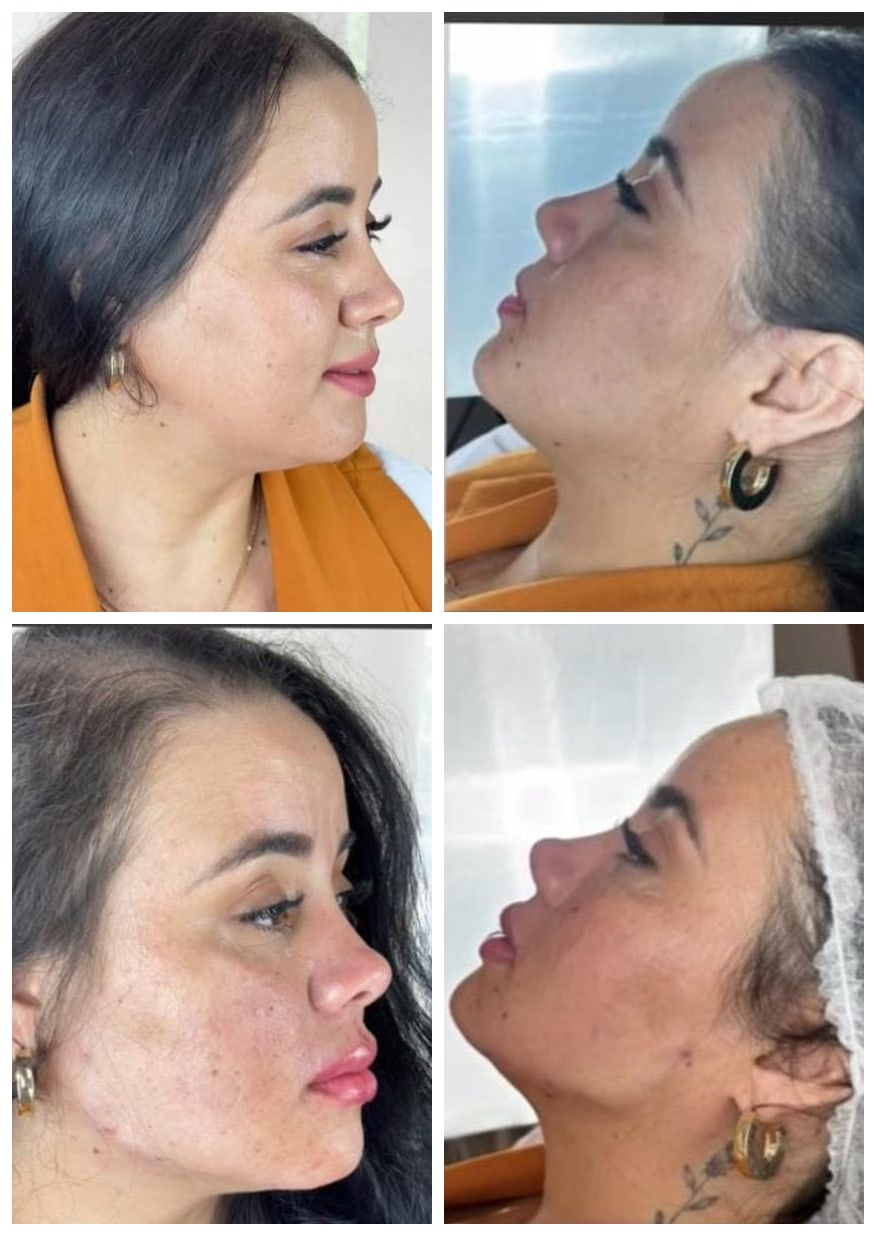
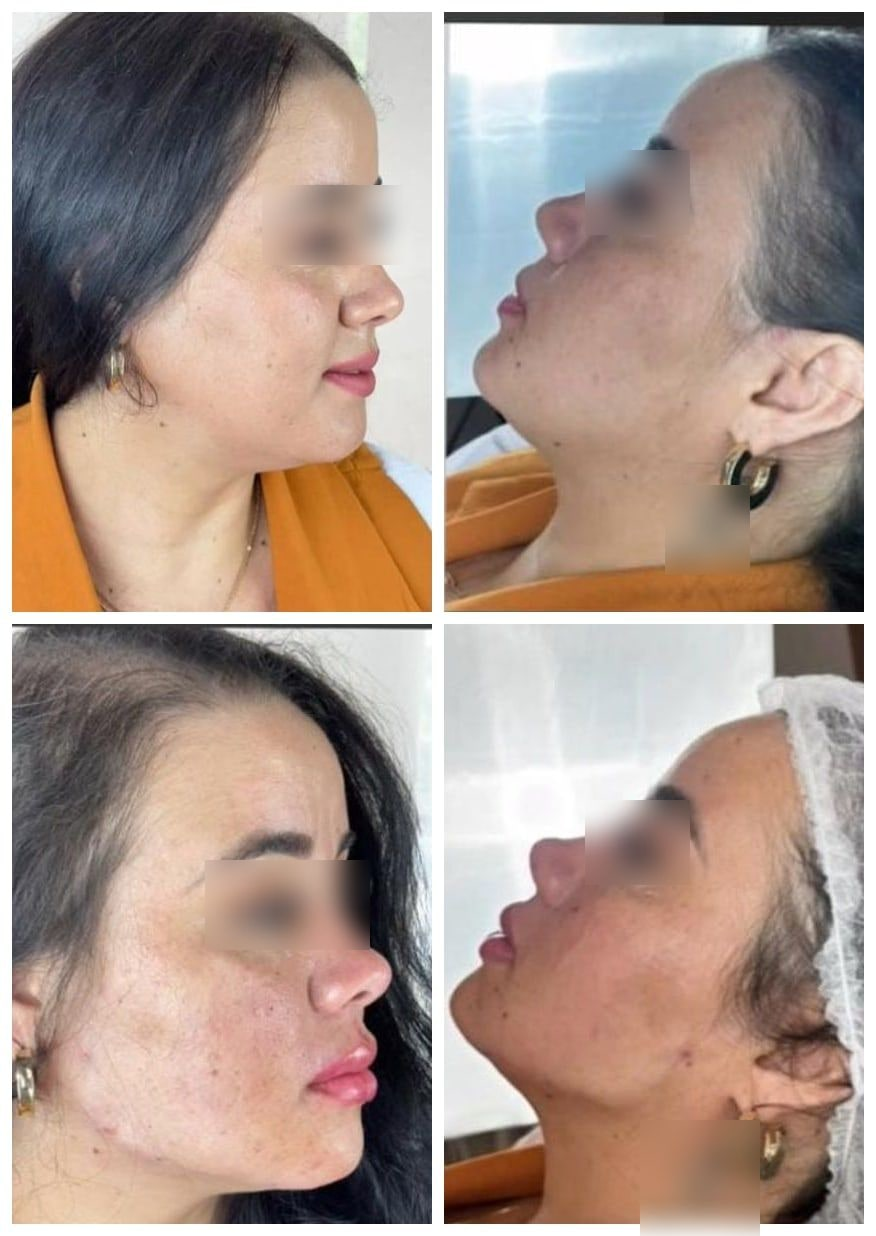
Desfoca a identidade na foto de harmonizacao e registra as decisoes da clinica
Sem o termo de consentimento por ora, a montagem de antes e depois fica
com olhos e tatuagem desfocados; o procedimento continua visivel. A foto
original segue no historico do git para quando o termo chegar.

Registra no README e no briefing: odontopediatria dentro de clinica geral,
clinica tratada como nova ate confirmacao, FAQ confirmado e teste em
iPhone/Firefox adiado.

diff --git a/components/secoes/resultados.tsx b/components/secoes/resultados.tsx
@@ -17,7 +17,7 @@ const casos = [
   },
   {
     src: "/fotos/harmonizacao-facial-montagem.jpg",
-    alt: "Montagem com quatro fotos do rosto de uma paciente, de frente e de perfil, antes e depois da harmonização facial",
+    alt: "Montagem com quatro fotos do rosto de uma paciente, de frente e de perfil, antes e depois da harmonização facial, com olhos e tatuagem desfocados para preservar a identidade",
     largura: 876,
     altura: 1236,
     legenda: "Harmonização facial, antes e depois",

diff --git a/README.md b/README.md
@@ -125,5 +125,12 @@ Regras que evitam quebra (detalhes em `components/` e na skill `site-premium`):
   e um botão de WhatsApp.
 - Mídia melhor (opcional): vídeos dos tratamentos regravados em 1080×1440, a foto
   da abertura em tamanho original e um vídeo curto de abertura.
-- Confirmar com a clínica: odontopediatria como serviço próprio, consentimento
-  para fotos de antes e depois, e "desde 2017" (Instagram) × "clínica nova".
+- Consentimento por escrito da paciente da harmonização facial. Até chegar, a
+  montagem fica com olhos e tatuagem desfocados (o original está no histórico
+  do git). Com o termo assinado, basta devolver a foto original.
+
+Decidido em 13/10/2026: odontopediatria fica dentro de clínica geral, sem item
+próprio; a clínica é tratada como nova até a Jhennifer confirmar o "desde 2017"
+do Instagram; as promessas do FAQ (encaixe no mesmo dia, convênio por reembolso,
+valor da avaliação pelo WhatsApp) foram confirmadas. Teste em iPhone e Firefox
+adiado por prazo.

diff --git a/briefing.md b/briefing.md
@@ -83,7 +83,11 @@ Hospedagem atual: Vercel
 Prazo: **[confirmar]**
 Coleta dados pessoais: não, se não houver formulário. Mapa do Google carrega só com clique (LGPD).
 
-## Divergências para confirmar com a clínica
+## Divergências com a clínica
+Respostas de 13/10/2026: odontopediatria fica dentro de clínica geral; a clínica é tratada como
+nova até confirmação; FAQ confirmado; sem consentimento por ora, a harmonização vai com olhos e
+tatuagem desfocados; logo SVG ainda não disponível.
+
 1. O Instagram diz "desde 2017 transformando sorrisos"; a v1 diz que a clínica "é nova, aberta do zero".
    Provável: a doutora atua desde 2017 e a clínica é recente.
 2. Odontopediatria entra como serviço próprio ou dentro de clínica geral?
